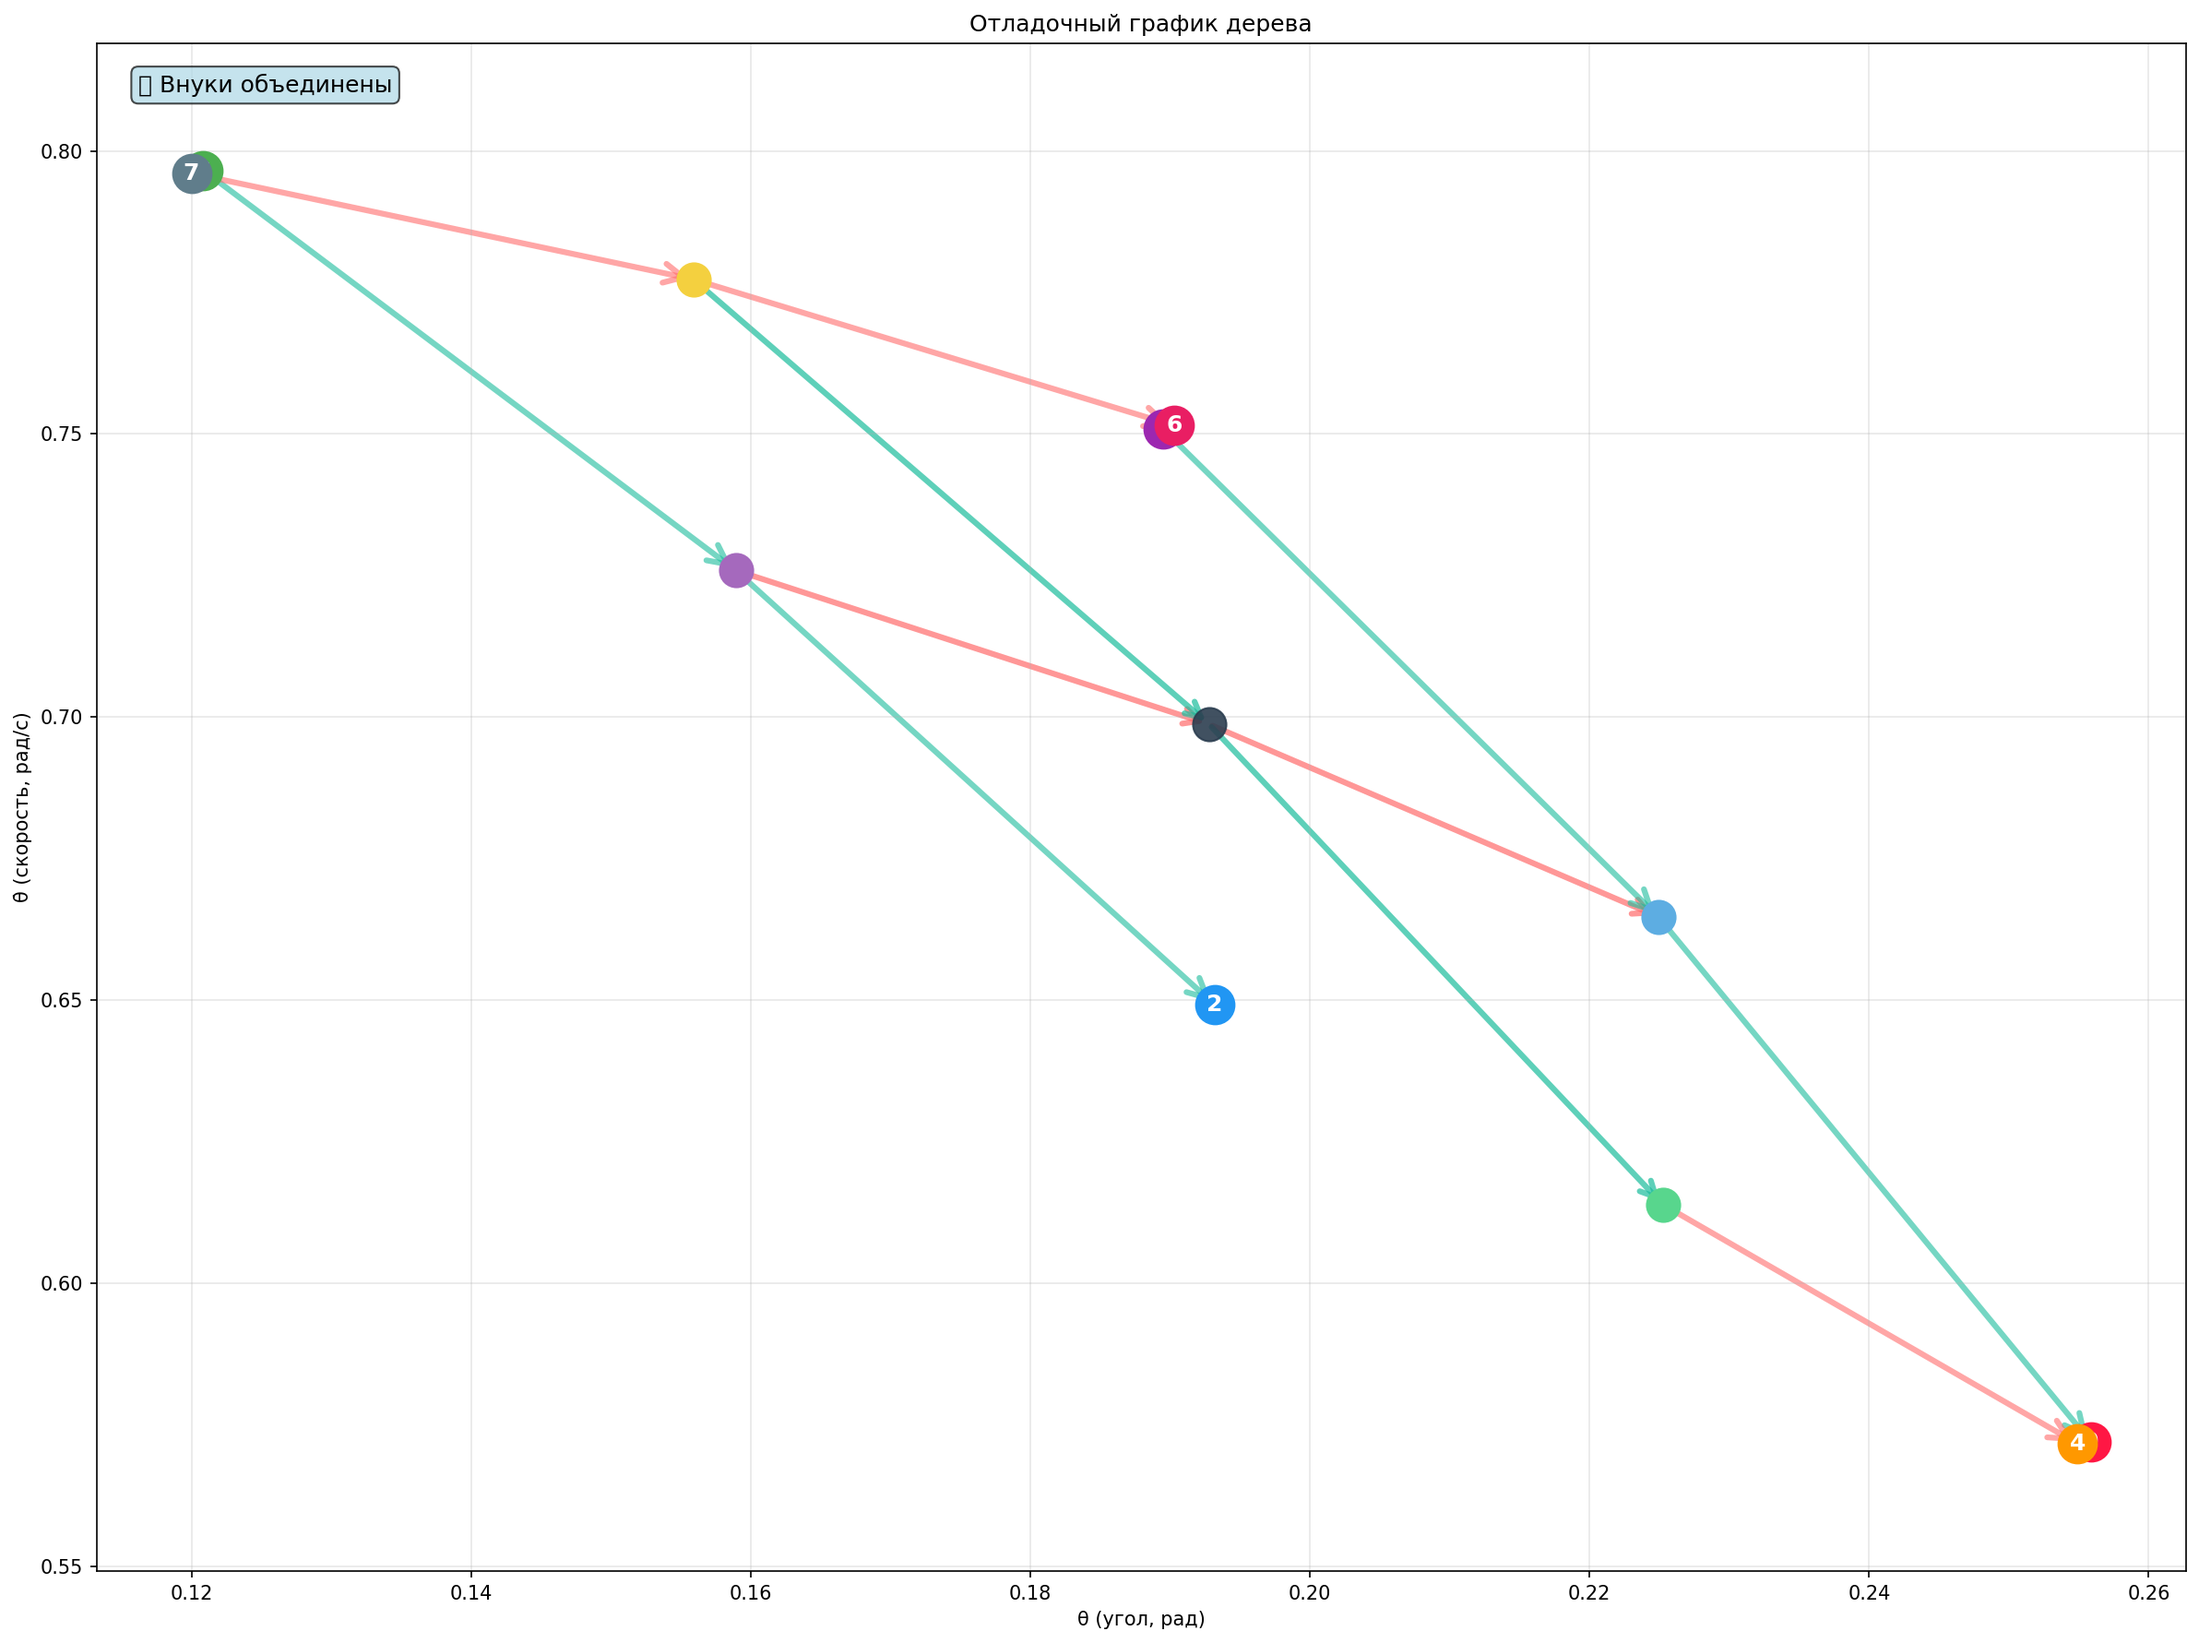
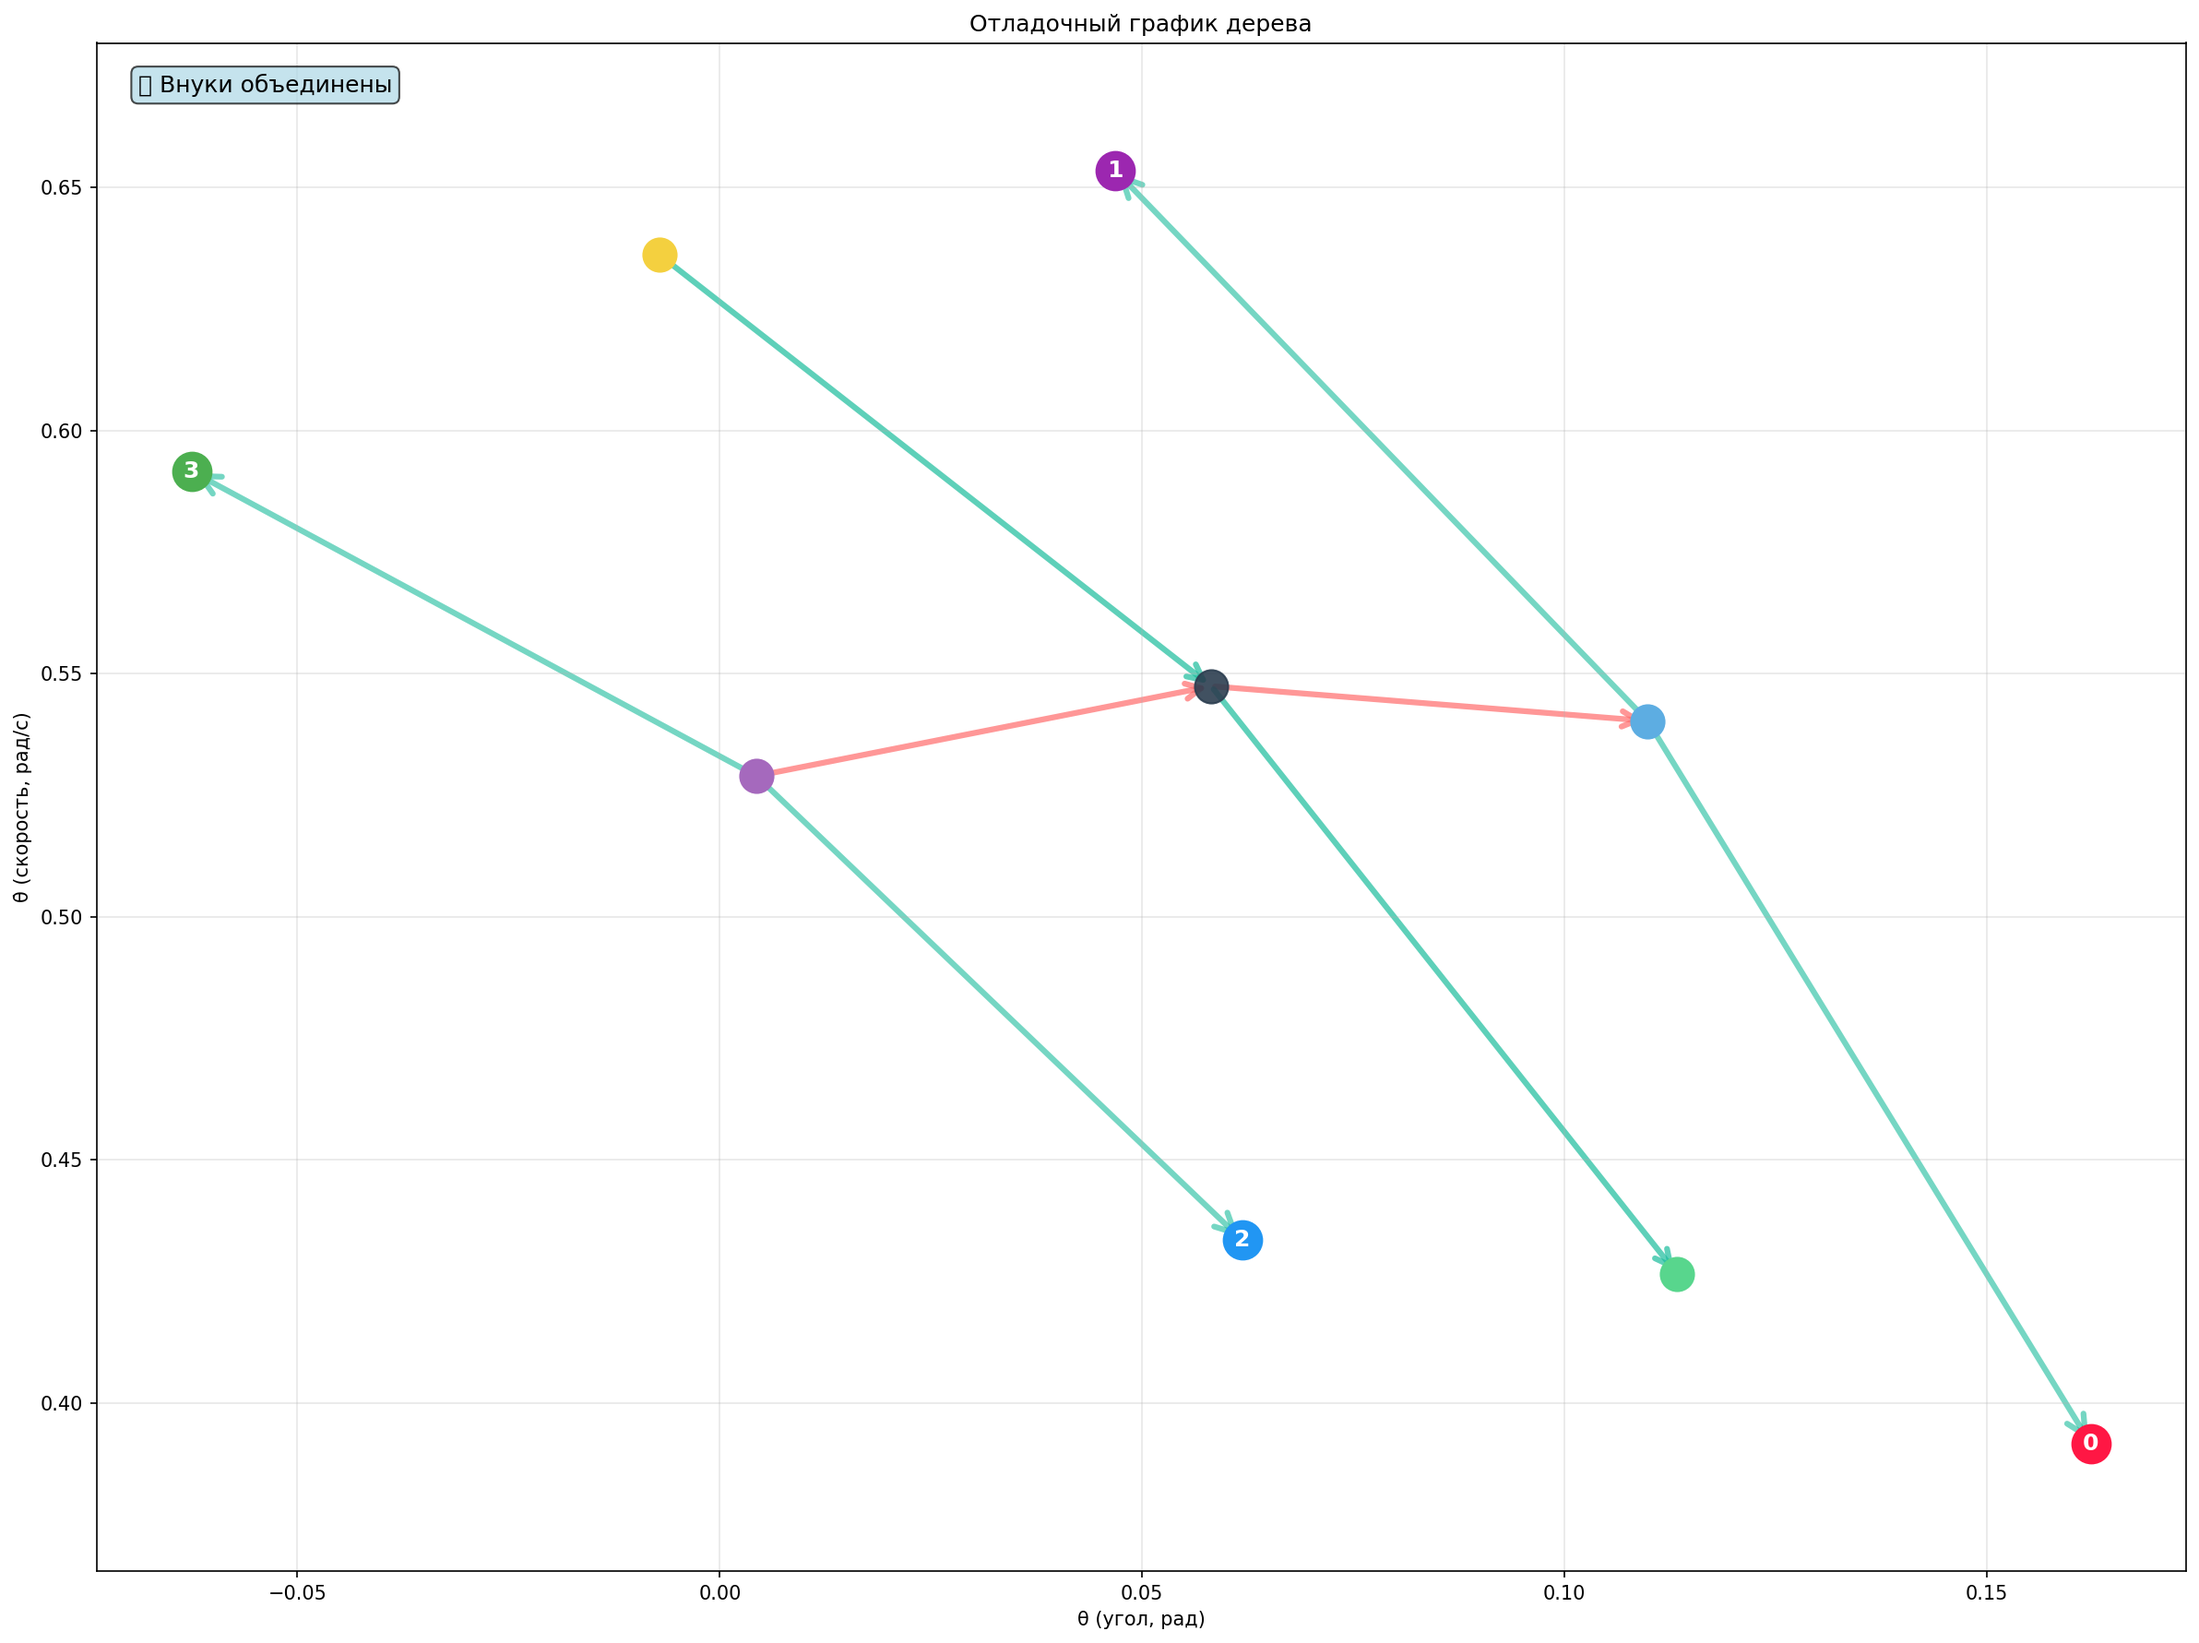
склейка работает для призрака

diff --git a/spores/v16_picker/src/managers/manual_creation/tree_creation_manager.py b/spores/v16_picker/src/managers/manual_creation/tree_creation_manager.py
@@ -130,10 +130,14 @@ class TreeCreationManager:
                 if depth >= 2:
                     grandchildren = tree_logic.create_grandchildren(show=False)
                     
-                    # Автоматическое объединение отключено - только ручное по M
-                    # merge_result = tree_logic.merge_close_grandchildren(
-                    #     distance_threshold=self.deps.config.get('tree', {}).get('merge_threshold', 1e-4)
-                    # )
+                    # Применяем объединение для призрачных деревьев
+                    merge_result = tree_logic.merge_close_grandchildren(
+                        distance_threshold=2e-3  # Увеличенный threshold для оптимизированных пар
+                    )
+
+                    if merge_result['total_merged'] > 0:
+                        print(f"🔗 Объединено {merge_result['total_merged']} пар внуков в реальном дереве")
+                        print(f"📊 Внуков в реальном дереве: {merge_result['remaining_grandchildren']}")
             else:
                 # Создаем обычное дерево ТОЧНО как в превью: явные dt + единый пересчет
                 print(f"🌲 Создаем дерево без паринга (dt как в превью)")
@@ -162,7 +166,7 @@ class TreeCreationManager:
                     
                     # НОВОЕ: Объединяем близких внуков
                     merge_result = tree_logic.merge_close_grandchildren(
-                        distance_threshold=self.deps.config.get('tree', {}).get('merge_threshold', 1e-4)
+                        distance_threshold=2e-3  # Консистентный threshold с призрачными деревьями
                     )
                     
                     if merge_result['total_merged'] > 0:

diff --git a/spores/v16_picker/src/managers/input_manager.py b/spores/v16_picker/src/managers/input_manager.py
@@ -3,7 +3,7 @@ import time
 import numpy as np
 from typing import Optional
 
-# hi, claude
+
 
 # Предварительное объявление классов для аннотаций типов
 # Это позволяет избежать циклических импортов
@@ -1330,8 +1330,8 @@ class InputManager:
             print(f"📊 ДО объединения: {len(tree_logic.grandchildren)} внуков")
             
             # Вызываем объединение с трешхолдом чуть больше constraint_distance
-            # Используем 1e-3 вместо 1e-4 чтобы гарантированно захватить оптимизированные пары
-            merge_result = tree_logic.merge_close_grandchildren(distance_threshold=1e-3)
+            # Используем 1e-2 вместо 1e-3 чтобы гарантированно захватить оптимизированные пары
+            merge_result = tree_logic.merge_close_grandchildren(distance_threshold=1e-2)
             
             if merge_result['total_merged'] > 0:
                 print(f"✅ Объединено {merge_result['total_merged']} пар внуков")
@@ -1344,7 +1344,7 @@ class InputManager:
                         self.manual_spore_manager._update_predictions()
                     print(f"🔄 Призрачные предсказания обновлены")
             else:
-                print(f"📊 Объединение не требуется - все внуки достаточно далеко (> 1e-3)")
+                print(f"📊 Объединение не требуется - все внуки достаточно далеко (> 1e-2)")
             
             # Автоматически сохраняем debug картинку
             if hasattr(tree_logic, 'debug_plot_tree'):
